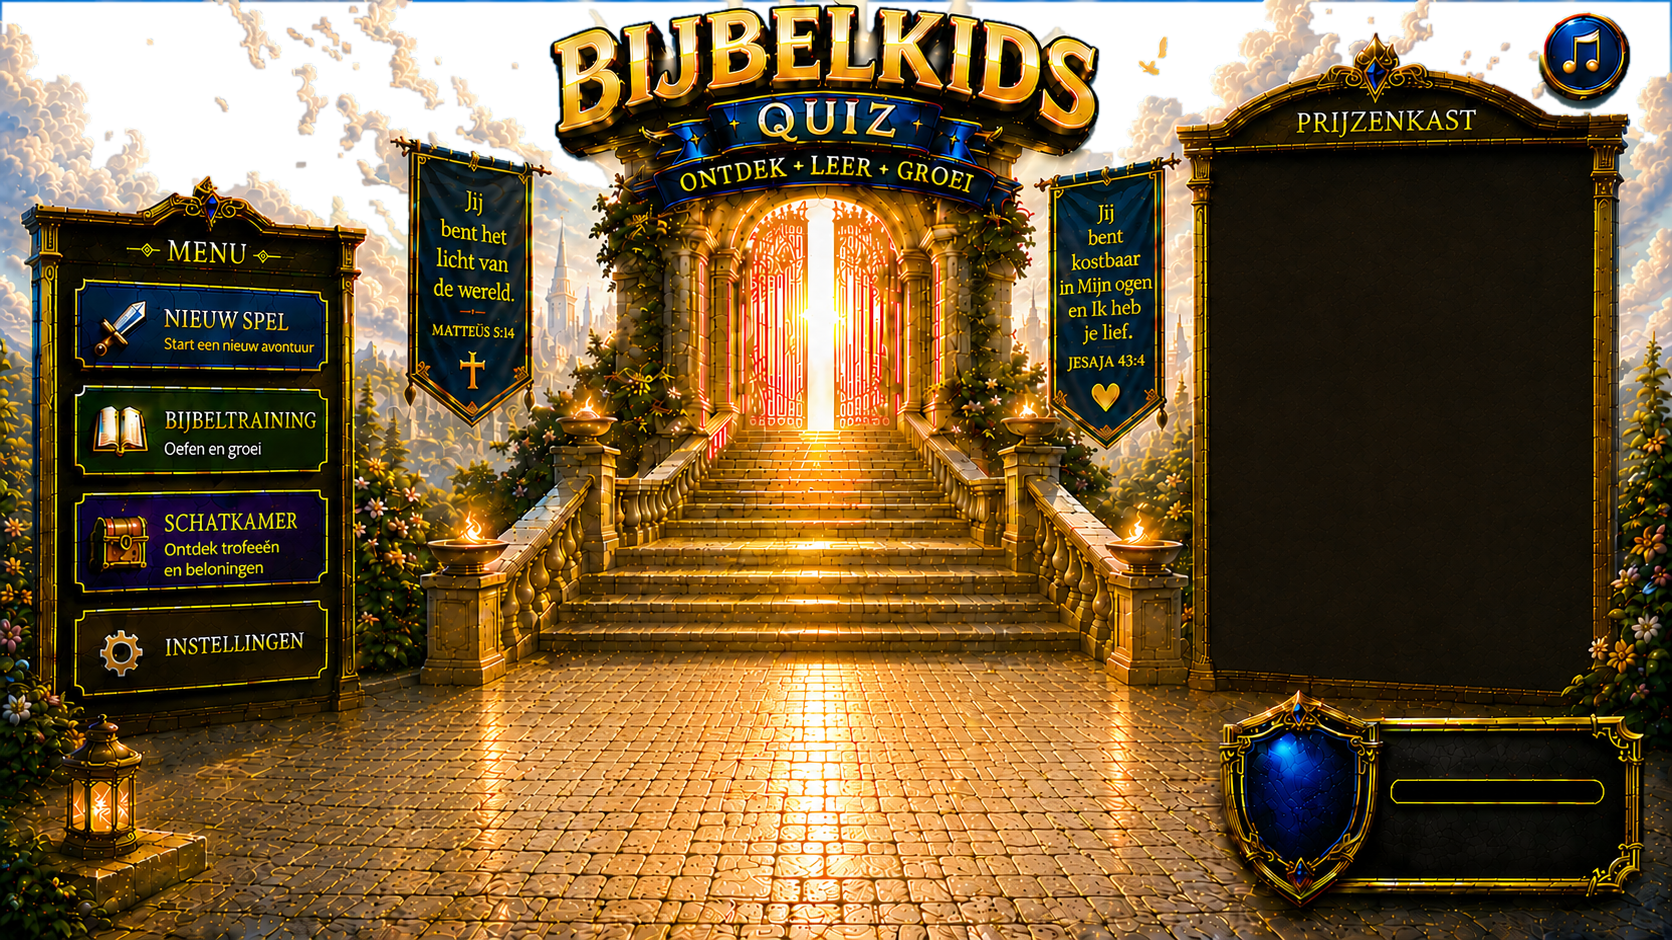
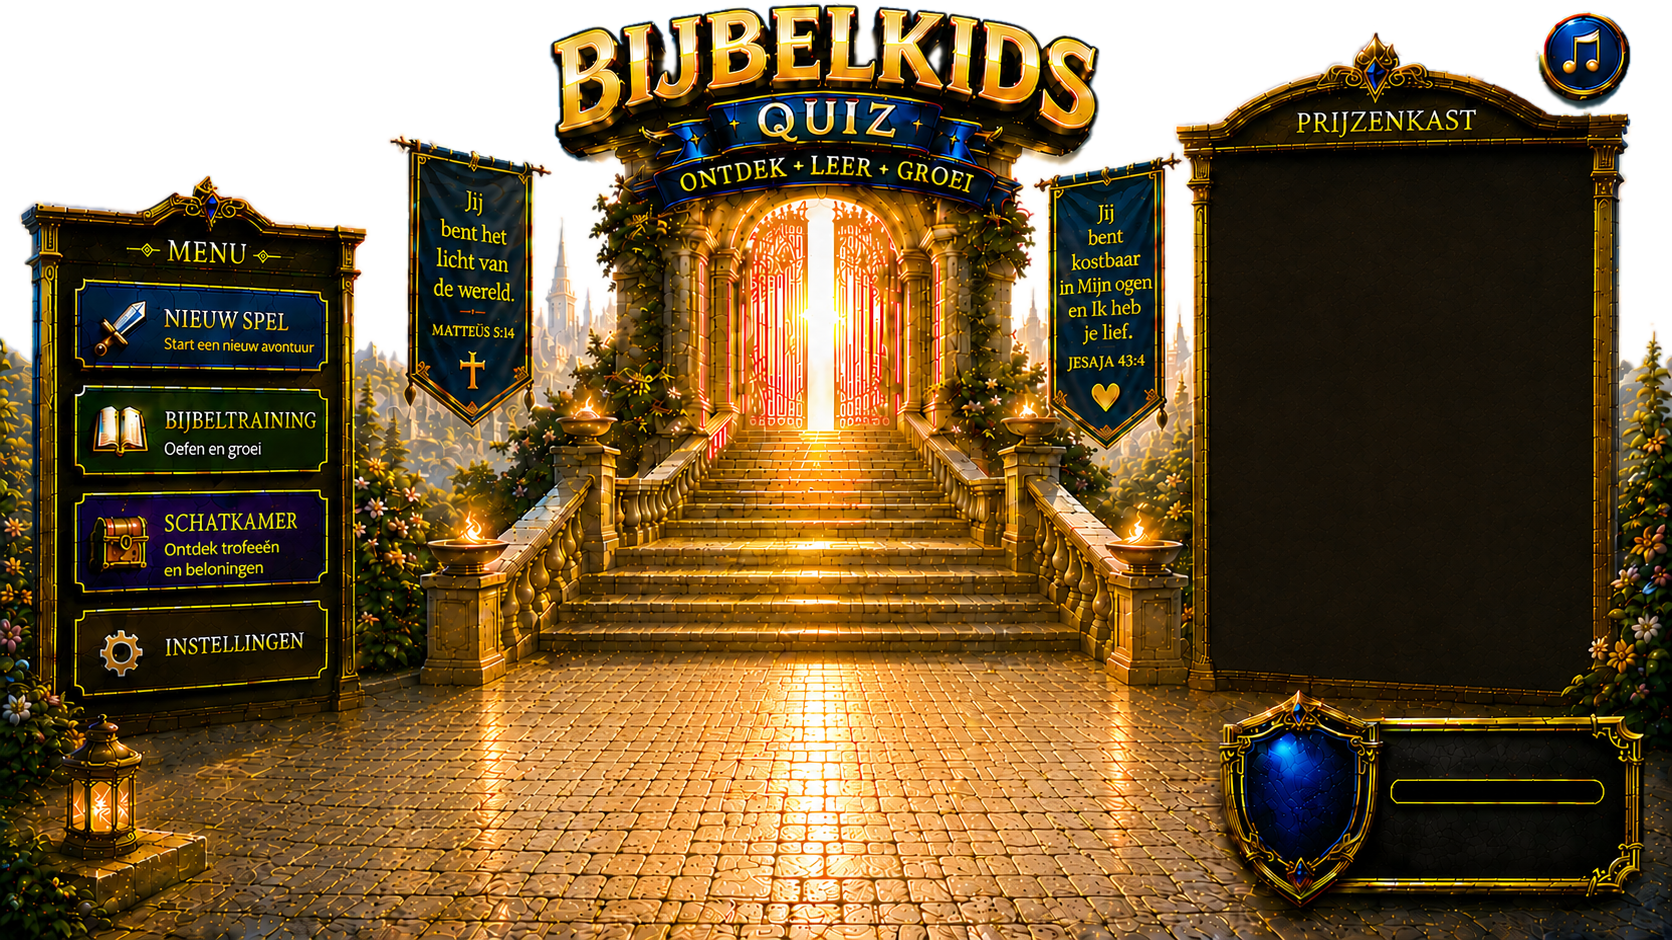
Scherm 2 hersteld: voorgrond-masker teruggezet, lucht schoongemaakt
- Ontbrekend scherm-2-masker (voorgrond_scherm2_transparante_lucht.png)
  teruggehaald uit commit 0c735df; evangelieboeken weg, schone vloer,
  blokje linksboven weg
- script.js verwijst nu naar de juiste bestandsnaam
  (was voorgrond_scherm2_avond.png)
- Ingeschilderde wolken uit de luchtzone verwijderd o.b.v. scherm 1's
  alfamasker; lucht nu transparant zoals scherm 1, zachte randen behouden
- Comment op regel 9306 bijgewerkt

Changed region(s): [[0.0, 0.0, 1.0, 0.4011], [0.311, 0.1543, 0.3732, 0.3394], [0.8708, 0.0617, 0.9019, 0.0926]]

diff --git a/script.js b/script.js
@@ -9299,15 +9299,16 @@ function bouwWolkenLaag(config, prefix) {
 // bestaande z-index van .wolken-laag (2) en .voorgrond (3).
 //
 // BELANGRIJK — eigen platen voor scherm 2 (NIET die van scherm 1):
-// De scherm-1-platen hebben de evangelie-boeken én de gevulde prijzenkast
-// INGEBAKKEN; die zouden achter de losse NT-boeken/NT-kast uit piepen
-// (boekendubbeling). Daarom gebruikt scherm 2 de LEGE stage:
-//   - bg  = startschermleeg.webp           (lege plateaus, lege kast)
+// Scherm 2 krijgt de DIEPBLAUWE AVONDHEMEL van scherm 1. De scherm-1-platen
+// hebben echter de evangelie-boeken + gevulde prijzenkast INGEBAKKEN; die
+// dubbelden achter de losse NT-boeken/NT-kast. Daarom:
+//   - bg  = startschermzonderwolken.png    (scherm 1's avondscène = avondhemel)
 //   - voorgrond = voorgrond_scherm2_transparante_lucht.png
-//                 (diezelfde lege stage met de lucht weggesneden/transparant)
-// Beide zijn dezelfde scène, dus de cut-rand valt onzichtbaar weg en alleen de
-// driftende wolken komen in de open lucht erbij. Geen ingebakken boeken = geen
-// dubbeling. De gedeelde scherm-1-voorgrond blijft hierdoor onaangeroerd.
+//                 (KOPIE van de avond-voorgrond met de 4 evangelie-boeken
+//                  weg-geïnpaint; lucht blijft transparant)
+// De gevulde kast hoeft niet gepoetst: de NT-kast (nt2-kast) dekt die af. De
+// gedeelde scherm-1-voorgrond (voorgrond_transparante_lucht.png) blijft
+// ONAANGEROERD — er is op een kopie gewerkt.
 (function bouwWolkenScherm2() {
     const scherm2 = document.getElementById("nt-scherm-2");
     if (!scherm2) return;
@@ -9318,14 +9319,14 @@ function bouwWolkenLaag(config, prefix) {
 
     const bg = document.createElement("img");
     bg.className = "nt2-hemel-bg";
-    bg.src = "images/startschermleeg.webp";   // lege stage (geen ingebakken boeken)
+    bg.src = "images/startschermzonderwolken.png";   // avondhemel (scherm 1's scène)
     bg.alt = "";
 
     const laag = bouwWolkenLaag(WOLKEN, "s2-");
 
     const voor = document.createElement("img");
     voor.className = "voorgrond";          // hergebruikt de bestaande voorgrond-stijl (z-index 3)
-    voor.src = "images/voorgrond_scherm2_transparante_lucht.png";  // lege stage, lucht transparant
+    voor.src = "images/voorgrond_scherm2_transparante_lucht.png";  // avondplaat, boeken weg-geïnpaint, lucht transparant
     voor.alt = "";
 
     hemel.appendChild(bg);